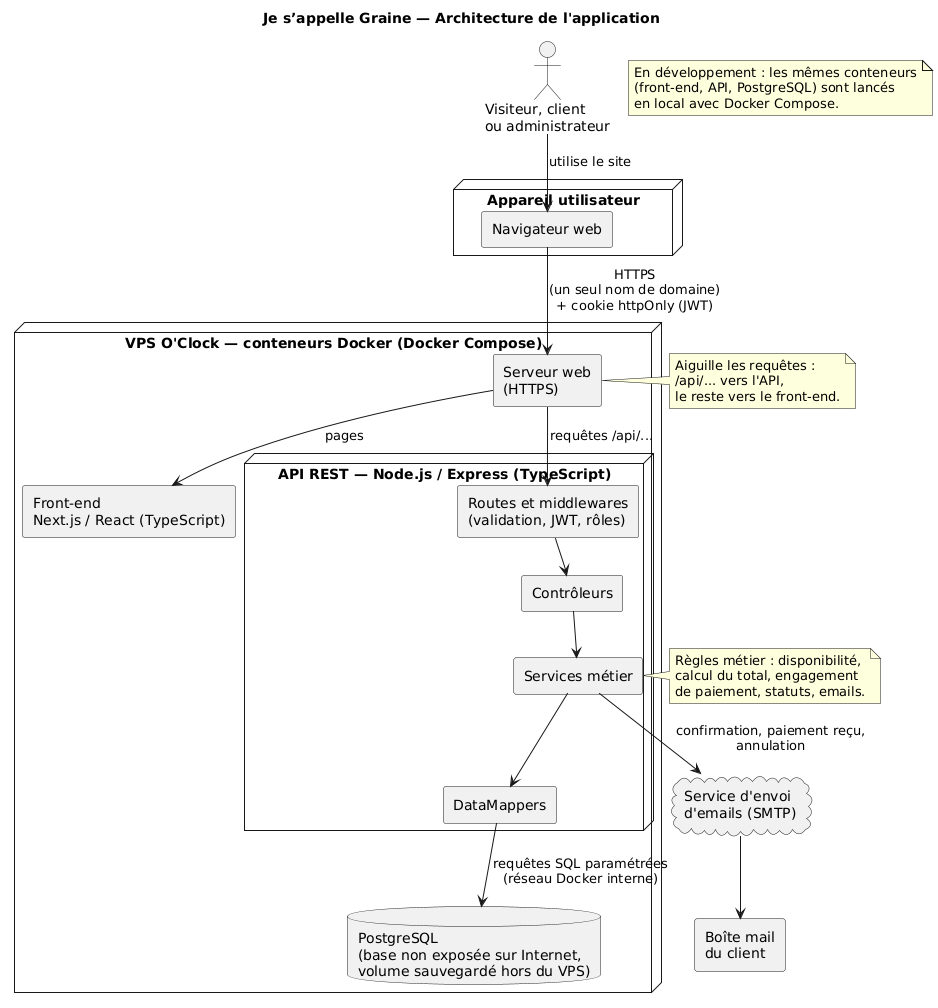
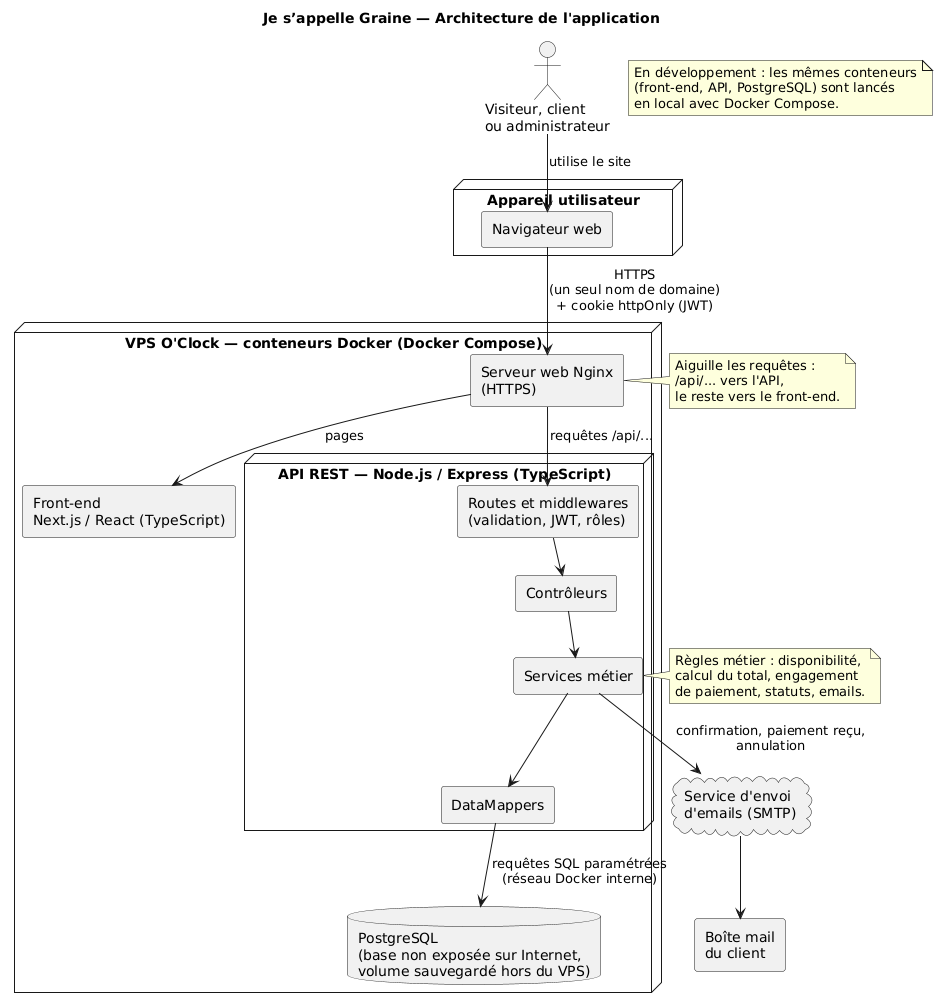
docs: Nginx retenu, sécurité de la connexion (mot de passe 12 caractères, CSRF), limitation des tentatives en évolution

Changed region(s): [[0.4638, 0.7688, 0.7111, 0.8919], [0.4947, 0.3383, 0.7111, 0.3998], [0.5565, 0.5536, 0.6493, 0.6458]]

diff --git a/docs/specifications/user-stories.md b/docs/specifications/user-stories.md
@@ -33,7 +33,7 @@
 | US05 | Visiteur | être redirigé vers la page de connexion, avec un lien pour créer un compte si je n'en ai pas, quand je clique sur « Ajouter au panier » | comprendre qu'un compte est nécessaire pour remplir un panier | MVP |
 | US05b | Visiteur | accéder au panier après avoir créé un compte ou m'être connecté | poursuivre ma commande | MVP |
 | US06 | Visiteur | revenir automatiquement sur la fiche de l'arbre après mon inscription/connexion | reprendre mon achat là où je l'avais laissé | Évo |
-| US07 | Visiteur | créer un compte avec mon prénom, mon nom, mon email et mon mot de passe, choisir mon type de compte (particulier par défaut, association ou entreprise) et, si je choisis association ou entreprise, renseigner éventuellement le nom de ma structure | pouvoir acheter et suivre mes commandes avec un compte adapté à mon profil | MVP |
+| US07 | Visiteur | créer un compte avec mon prénom, mon nom, mon email et mon mot de passe (au moins 12 caractères), choisir mon type de compte (particulier par défaut, association ou entreprise) et, si je choisis association ou entreprise, renseigner éventuellement le nom de ma structure | pouvoir acheter et suivre mes commandes avec un compte adapté à mon profil | MVP |
 | US08 | Visiteur | consulter la page « Qui sommes-nous » | savoir qui est derrière Je s’appelle Graine et lui faire confiance | MVP |
 | US09 | Visiteur | consulter les mentions légales et la politique de confidentialité (RGPD) | savoir comment mes données sont utilisées | MVP |
 | US10 | Visiteur | voir les partenaires / associations soutenues | connaître les projets que je peux financer | Évo |
@@ -59,7 +59,7 @@
 | US26b | Client | annuler une commande tant qu'elle est en attente de paiement | annuler un achat que je ne souhaite plus faire | MVP |
 | US27 | Client | suivre le statut d'une commande (en attente, payée, plantée, annulée) | savoir où en est la plantation de mes arbres | MVP |
 | US28 | Client | modifier toutes mes informations (prénom, nom, adresse, email, type de compte, structure), sauf mon rôle | garder un compte à jour | MVP |
-| US29 | Client | changer mon mot de passe | sécuriser mon compte | MVP |
+| US29 | Client | changer mon mot de passe (au moins 12 caractères) | sécuriser mon compte | MVP |
 | US30 | Client | supprimer mon compte | exercer mon droit à l'effacement (RGPD) | MVP |
 | US31 | Client | choisir si j'achète un arbre proposé par Je s’appelle Graine ou par une association tierce | soutenir le projet qui me tient à cœur | Évo |
 | US32 | Client | payer en ligne par carte bancaire ou par PayPal via un service sécurisé (Stripe) | acheter en toute sécurité | Évo |

diff --git a/docs/conception/diagrammes/01-architecture.md b/docs/conception/diagrammes/01-architecture.md
@@ -8,7 +8,7 @@
 
 ## 1. Vue d'ensemble (environnement distant : le VPS)
 
-Toute l'application est hébergée sur un **VPS** (serveur privé virtuel fourni par O'Clock), chaque brique dans son conteneur Docker. Un serveur web placé devant reçoit toutes les requêtes HTTPS, envoie celles qui commencent par `/api` à l'API et les autres au front-end : le site et l'API partagent ainsi le même nom de domaine.
+Toute l'application est hébergée sur un **VPS** (serveur privé virtuel fourni par O'Clock), chaque brique dans son conteneur Docker. Un serveur web **Nginx** placé devant reçoit toutes les requêtes HTTPS, envoie celles qui commencent par `/api` à l'API et les autres au front-end : le site et l'API partagent ainsi le même nom de domaine.
 
 ```mermaid
 flowchart TB
@@ -19,7 +19,7 @@ flowchart TB
     end
 
     subgraph VPS["VPS — conteneurs Docker (Docker Compose)"]
-        W["Serveur web<br/>HTTPS, aiguillage des requêtes"]
+        W["Serveur web Nginx<br/>HTTPS, aiguillage des requêtes"]
         F["Front-end Next.js<br/>pages publiques, catalogue, panier,<br/>paiement, espace client, administration"]
         API["API REST Je s’appelle Graine<br/>Node.js + Express"]
         DB[("PostgreSQL<br/>comptes, arbres, paniers, commandes<br/>(volume de données sauvegardé)")]
@@ -66,7 +66,7 @@ flowchart TB
 
 ## 3. Environnement de développement
 
-En local, Docker Compose lance les mêmes conteneurs que sur le VPS, pour que tout le monde travaille avec la même configuration.
+En local, Docker Compose lance les mêmes conteneurs que sur le VPS (front-end, API, PostgreSQL), pour que tout le monde travaille avec la même configuration. Nginx n'est utile que sur le VPS : en local, le front-end appelle directement l'API.
 
 ```mermaid
 flowchart LR
@@ -87,7 +87,7 @@ flowchart LR
 
 | Brique | Technologie | Hébergement (distant) | En développement |
 | --- | --- | --- | --- |
-| Serveur web | À choisir | VPS (conteneur Docker) | — |
+| Serveur web | Nginx (HTTPS avec Certbot) | VPS (conteneur Docker) | — |
 | Front-end | Next.js / React (TypeScript) | VPS (conteneur Docker) | Conteneur Docker (Docker Compose) |
 | API REST | Node.js + Express (TypeScript) | VPS (conteneur Docker) | Conteneur Docker (Docker Compose) |
 | Base de données | PostgreSQL | VPS (conteneur Docker + volume sauvegardé) | Conteneur Docker (Docker Compose) |
@@ -97,5 +97,4 @@ flowchart LR
 
 ## Points à valider avec l'équipe
 
-- **Serveur web** (HTTPS, aiguillage `/api`) : à choisir.
 - **Sauvegardes de la base** : fréquence et lieu de stockage (hors du VPS).

diff --git a/CARNET-DE-BORD-JE-S-APPELLE-GRAINE.md b/CARNET-DE-BORD-JE-S-APPELLE-GRAINE.md
@@ -27,6 +27,8 @@
 - **Informations modifiables par le client** (US28) : tout (prénom, nom, adresse, email, type de compte, structure) sauf le rôle ; l'activation du compte reste gérée par l'admin.
 - **Durée du JWT** : 24 heures, puis le client se reconnecte.
 - **Envoi des emails** : Nodemailer côté API, via le serveur SMTP d'un prestataire (choix retenu).
+- **Sécurité de la connexion** : en MVP, mot de passe d'au moins 12 caractères et protection CSRF (cookie `SameSite=Lax` et requêtes JSON uniquement sur les routes qui modifient des données). La limitation des tentatives de connexion est classée en évolution.
+- **Serveur web** : Nginx, placé devant le front-end et l'API sur le VPS (HTTPS avec Certbot, aiguillage des requêtes `/api`).
 - **CGV** : classées en évolution (page `/cgv` et case à cocher sur la page de paiement).
 - **Rôle administrateur des ventes** : classé en évolution. Il gérera les commandes et le catalogue sans accès aux comptes ni à la partie technique ; l'administrateur actuel devient le super-administrateur. La table `role` permet de l'ajouter sans changer la structure de la base (US49, US55, US56).
 - **Évolutions ajoutées** : mot de passe oublié (US37), pagination des listes, envoi des photos (US48), retour automatique sur la fiche, panier enrichi.
@@ -35,7 +37,8 @@
 
 ### À poursuivre
 
-- Valider en équipe la sécurité de la connexion (limite de tentatives, longueur du mot de passe, protection CSRF).
+- **Fin du sprint 0** : Simulation de la présentation.
+- **Maquette et charte graphique** : Valider les maquettes finalisées.
 
 ## 2026-10-21 — Nom du projet, paiement, disponibilité, hébergement et vérification du modèle de données
 
